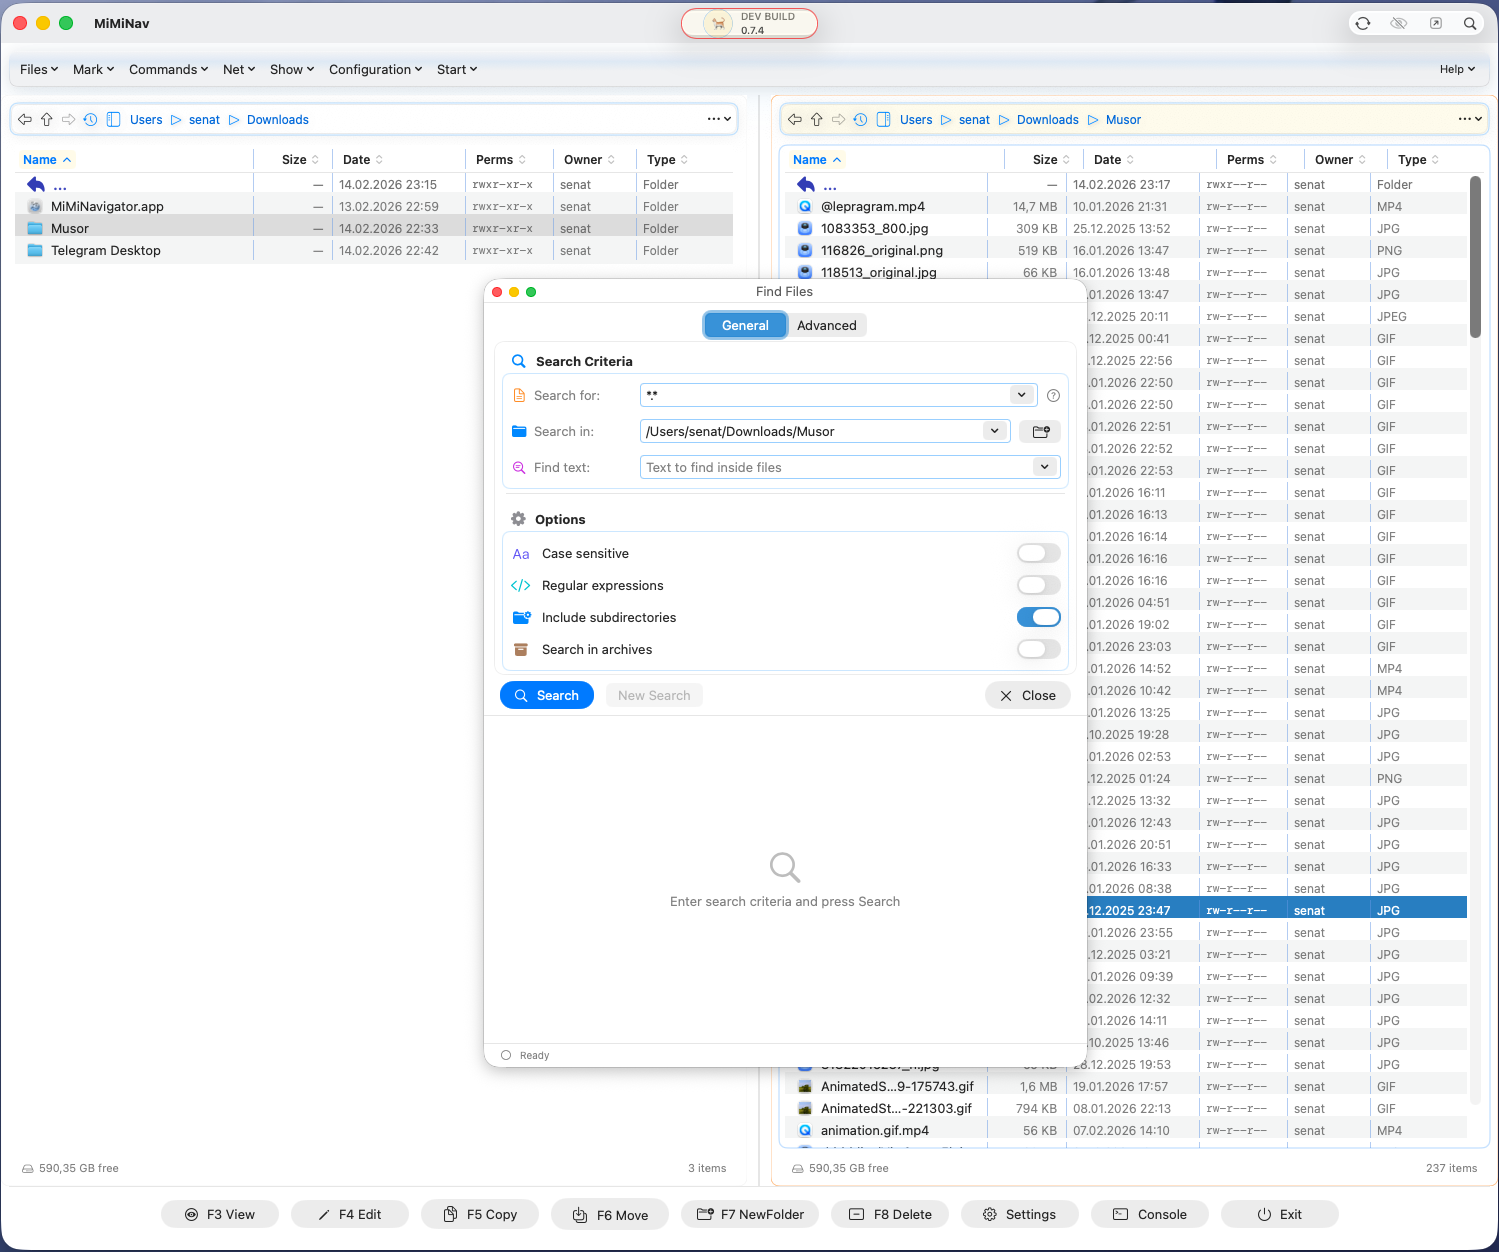
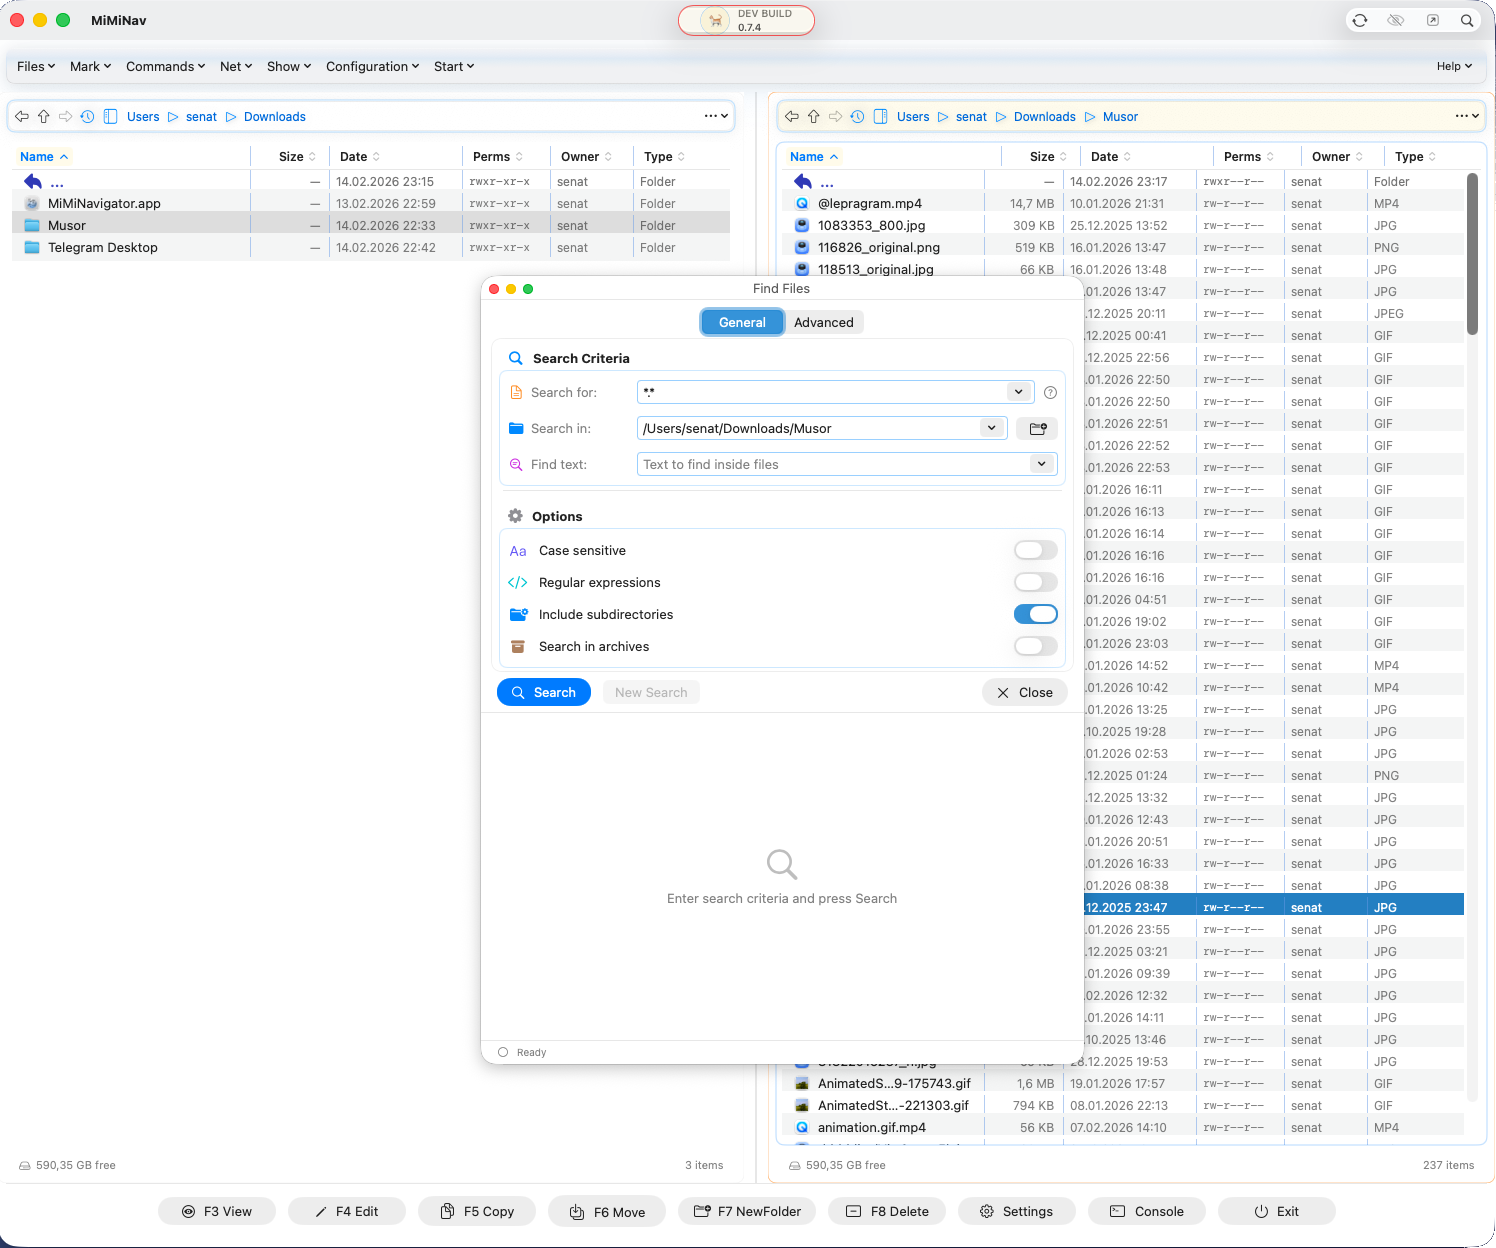
Add diagnostic drag logging to ResizableDivider
- Logs translation, delta, start/new/clamped width on every drag frame
- Helps diagnose directional drag issue

Fix ResizableDivider: add onAutoFit + double-click, keep real-time drag

- Drag updates binding in real-time (visual feedback) but saves only on mouse-up
- Double-click on divider auto-fits column to widest content + 1 char
- onAutoFit closure passed from TableHeaderView → FileTableView auto-fit methods

Move GeometryReader to FileTableView.body background for stable width measurement

- GeometryReader inside VStack was unreliable (tableW=0 race condition)
- Now measures actual rendered width of the ScrollViewReader container
- Remove .frame(maxWidth:.infinity) from FileTableRowsView
- Both header and rows receive same computed nameColumnWidth

Radical fix: remove computed nameColumnWidth, use .maxWidth(.infinity) for Name in both header and rows

- Both header and rows now use identical .frame(minWidth:60, maxWidth:.infinity)
- Removes nameColumnWidth computed property, tableContentWidth, GeometryReader
- SwiftUI layout engine handles flexible column sizing identically
- ResizableDivider gets explicit .frame(width:1) to match ColumnSeparator
- Eliminates all formula-based width calculation and race conditions

Optimize column resize: defer update to mouse-up, add double-click auto-fit

- ResizableDivider: drag updates local @State only, binding commits on onEnded
- Eliminates per-frame re-render of all rows during column resize drag
[…]

diff --git a/GUI/Sources/Features/Panels/FileTable/ResizableDivider.swift b/GUI/Sources/Features/Panels/FileTable/ResizableDivider.swift
@@ -2,31 +2,32 @@
 // MiMiNavigator
 //
 // Created by Iakov Senatov on 27.01.2026.
+// Refactored: 17.02.2026
 // Copyright © 2026 Senatov. All rights reserved.
 // Description: Draggable divider for resizing table columns
+//   - Drag updates binding in real-time but saves (onEnd) only on mouse-up
+//   - Double-click triggers auto-fit callback
 
 import SwiftUI
 
 // MARK: - Resizable Divider
-/// Vertical divider that can be dragged to resize adjacent columns
-/// Resizable column divider for header.
-/// Uses the SAME ColumnSeparator as row dividers to guarantee identical layout,
-/// with an invisible overlay for drag gesture hit area.
 struct ResizableDivider: View {
     @Binding var width: CGFloat
     let min: CGFloat
     let max: CGFloat
+    /// Called only on mouse-up (saves to UserDefaults)
     let onEnd: () -> Void
+    /// Called on double-click; returns optimal width for the column
+    var onAutoFit: (() -> CGFloat)? = nil
 
     @State private var isHovering = false
     @State private var isDragging = false
     @State private var dragStartWidth: CGFloat = 0
 
     var body: some View {
-        // Use exactly the same ColumnSeparator as rows — guarantees identical layout
         ColumnSeparator()
+            .frame(width: ColumnSeparatorStyle.width)
             .overlay {
-                // Hover/drag color feedback (does not affect layout)
                 if isHovering || isDragging {
                     Rectangle()
                         .fill(isDragging ? ColumnSeparatorStyle.dragColor : ColumnSeparatorStyle.hoverColor)
@@ -35,11 +36,11 @@ struct ResizableDivider: View {
                 }
             }
             .overlay {
-                // Wide invisible hit area for dragging (does not affect layout)
                 Color.clear
                     .frame(width: 14)
                     .contentShape(Rectangle())
                     .gesture(dragGesture)
+                    .simultaneousGesture(doubleTapGesture)
                     .onHover { hovering in
                         withAnimation(.easeInOut(duration: 0.1)) {
                             isHovering = hovering
@@ -53,6 +54,7 @@ struct ResizableDivider: View {
             }
     }
 
+    // MARK: - Drag: update binding in real-time, save only on mouse-up
     private var dragGesture: some Gesture {
         DragGesture(minimumDistance: 1)
             .onChanged { value in
@@ -62,12 +64,26 @@ struct ResizableDivider: View {
                 }
                 let delta = -value.translation.width
                 let newWidth = dragStartWidth + delta
-                width = Swift.min(Swift.max(newWidth, min), max)
+                let clamped = Swift.min(Swift.max(newWidth, min), max)
+                log.debug("[RD] drag tx=\(value.translation.width) delta=\(delta) start=\(dragStartWidth) new=\(newWidth) clamped=\(clamped) old=\(width)")
+                width = clamped
             }
             .onEnded { _ in
                 isDragging = false
+                onEnd()  // persist to UserDefaults only once
+                log.debug("[ResizableDivider] drag ended, width=\(width)")
+            }
+    }
+
+    // MARK: - Double-tap: auto-fit column width
+    private var doubleTapGesture: some Gesture {
+        TapGesture(count: 2)
+            .onEnded {
+                guard let autoFit = onAutoFit else { return }
+                let optimal = Swift.min(Swift.max(autoFit(), min), max)
+                width = optimal
                 onEnd()
-                log.debug("\(#function) [ResizableDivider] drag ended, new width=\(width)")
+                log.debug("[ResizableDivider] auto-fit, width=\(optimal)")
             }
     }
 }

diff --git a/GUI/Sources/Features/Panels/FileTable/TableHeaderView.swift b/GUI/Sources/Features/Panels/FileTable/TableHeaderView.swift
@@ -15,67 +15,75 @@ struct TableHeaderView: View {
     let panelSide: PanelSide
     @Binding var sortKey: SortKeysEnum
     @Binding var sortAscending: Bool
-    let nameColumnWidth: CGFloat
     @Binding var sizeColumnWidth: CGFloat
     @Binding var dateColumnWidth: CGFloat
     @Binding var typeColumnWidth: CGFloat
     @Binding var permissionsColumnWidth: CGFloat
     @Binding var ownerColumnWidth: CGFloat
     let onSave: () -> Void
+    // Auto-fit closures: return optimal width for each column
+    var autoFitSize: (() -> CGFloat)? = nil
+    var autoFitDate: (() -> CGFloat)? = nil
+    var autoFitPermissions: (() -> CGFloat)? = nil
+    var autoFitOwner: (() -> CGFloat)? = nil
+    var autoFitType: (() -> CGFloat)? = nil
 
     var body: some View {
         HStack(alignment: .center, spacing: 0) {
-            // Name column (flexible)
+            // Name column (flexible) — no divider before it, no fixed width
             nameHeader
+
+            // ── Each divider sits BEFORE its column ──
+            // Drag RIGHT → column SHRINKS (delta = -translation)
+            // Drag LEFT  → column GROWS
+            //
+            // Layout: Name ‖ Size ‖ Date ‖ Perms ‖ Owner ‖ Type
+            //              ↑      ↑      ↑       ↑       ↑
+            //          dividers control the column to their RIGHT
 
             ResizableDivider(
                 width: $sizeColumnWidth,
                 min: TableColumnDefaults.minWidth,
                 max: TableColumnDefaults.maxWidth,
-                onEnd: onSave
+                onEnd: onSave,
+                onAutoFit: autoFitSize
             )
-
-            // Size column
             sizeHeader
 
             ResizableDivider(
                 width: $dateColumnWidth,
                 min: TableColumnDefaults.minWidth,
                 max: TableColumnDefaults.maxWidth,
-                onEnd: onSave
+                onEnd: onSave,
+                onAutoFit: autoFitDate
             )
-
-            // Date column
             dateHeader
 
             ResizableDivider(
                 width: $permissionsColumnWidth,
                 min: TableColumnDefaults.minWidth,
                 max: TableColumnDefaults.maxWidth,
-                onEnd: onSave
+                onEnd: onSave,
+                onAutoFit: autoFitPermissions
             )
-
-            // Permissions column
             permissionsHeader
 
             ResizableDivider(
                 width: $ownerColumnWidth,
                 min: TableColumnDefaults.minWidth,
                 max: TableColumnDefaults.maxWidth,
-                onEnd: onSave
+                onEnd: onSave,
+                onAutoFit: autoFitOwner
             )
-
-            // Owner column
             ownerHeader
 
             ResizableDivider(
                 width: $typeColumnWidth,
                 min: TableColumnDefaults.minWidth,
                 max: TableColumnDefaults.maxWidth,
-                onEnd: onSave
+                onEnd: onSave,
+                onAutoFit: autoFitType
             )
-
-            // Type column
             typeHeader
         }
         .frame(height: 24)
@@ -88,7 +96,7 @@ struct TableHeaderView: View {
     // MARK: - Name Column
     private var nameHeader: some View {
         SortableHeader(title: "Name", sortKey: .name, currentKey: sortKey, ascending: sortAscending)
-            .frame(width: nameColumnWidth, alignment: .leading)
+            .frame(minWidth: 60, maxWidth: .infinity, alignment: .leading)
             .clipped()
             .contentShape(Rectangle())
             .onTapGesture { toggleSort(.name) }

diff --git a/GUI/Sources/FilePanel/FileTable/TableView/FileTableView+Subviews.swift b/GUI/Sources/FilePanel/FileTable/TableView/FileTableView+Subviews.swift
@@ -12,27 +12,22 @@ extension FileTableView {
     
     var mainScrollView: some View {
         VStack(spacing: 0) {
-            // Measure available width for computing Name column
-            Color.clear.frame(height: 0)
-                .background(
-                    GeometryReader { geo in
-                        Color.clear
-                            .onAppear { tableContentWidth = geo.size.width }
-                            .onChange(of: geo.size.width) { _, w in tableContentWidth = w }
-                    }
-                )
             // Sticky header - outside ScrollView
             TableHeaderView(
                 panelSide: panelSide,
                 sortKey: $sortKey,
                 sortAscending: $sortAscending,
-                nameColumnWidth: nameColumnWidth,
                 sizeColumnWidth: $sizeColumnWidth,
                 dateColumnWidth: $dateColumnWidth,
                 typeColumnWidth: $typeColumnWidth,
                 permissionsColumnWidth: $permissionsColumnWidth,
                 ownerColumnWidth: $ownerColumnWidth,
-                onSave: saveColumnWidths
+                onSave: saveColumnWidths,
+                autoFitSize: { autoFitSize() },
+                autoFitDate: { autoFitDate() },
+                autoFitPermissions: { autoFitPermissions() },
+                autoFitOwner: { autoFitOwner() },
+                autoFitType: { autoFitType() }
             )
             
             // Scrollable content with background context menu
@@ -50,7 +45,6 @@ extension FileTableView {
                                 rows: sortedRows,
                                 selectedID: $selectedID,
                                 panelSide: panelSide,
-                                nameColumnWidth: nameColumnWidth,
                                 sizeColumnWidth: sizeColumnWidth,
                                 dateColumnWidth: dateColumnWidth,
                                 typeColumnWidth: typeColumnWidth,
@@ -62,7 +56,6 @@ extension FileTableView {
                                 handleDirectoryAction: handleDirectoryAction,
                                 handleMultiSelectionAction: handleMultiSelectionAction
                             )
-                            .frame(maxWidth: .infinity, alignment: .leading)
                         }
                         
                         // Empty space at bottom to allow right-click on empty area

diff --git a/GUI/Sources/Features/Panels/FileTable/TableView/FileTableView+State.swift b/GUI/Sources/Features/Panels/FileTable/TableView/FileTableView+State.swift
@@ -35,4 +35,53 @@ extension FileTableView {
         cachedSortedFiles = files.sorted(by: sorter.compare)
         log.debug("\(#function) panel=\(panelSide) sorted \(cachedSortedFiles.count) files by \(sortKey) asc=\(sortAscending)")
     }
+
+    // MARK: - Auto-fit: compute optimal column width from content
+
+    /// Measure pixel width of the longest string in column + 1 char padding
+    private func autoFitWidth(texts: [String], font: NSFont) -> CGFloat {
+        let attrs: [NSAttributedString.Key: Any] = [.font: font]
+        let charW = ("W" as NSString).size(withAttributes: attrs).width
+        var maxW: CGFloat = 0
+        for text in texts {
+            let w = (text as NSString).size(withAttributes: attrs).width
+            if w > maxW { maxW = w }
+        }
+        return ceil(maxW + charW)  // +1 character
+    }
+
+    func autoFitSize() -> CGFloat {
+        autoFitWidth(
+            texts: cachedSortedFiles.map { $0.fileSizeFormatted },
+            font: NSFont.systemFont(ofSize: 12)
+        ) + 8  // account for padding(.trailing, 8)
+    }
+
+    func autoFitDate() -> CGFloat {
+        autoFitWidth(
+            texts: cachedSortedFiles.map { $0.modifiedDateFormatted },
+            font: NSFont.systemFont(ofSize: 12)
+        ) + 12  // account for padding(.horizontal, 6)
+    }
+
+    func autoFitPermissions() -> CGFloat {
+        autoFitWidth(
+            texts: cachedSortedFiles.map { $0.permissionsFormatted },
+            font: NSFont.monospacedSystemFont(ofSize: 11, weight: .regular)
+        ) + 12
+    }
+
+    func autoFitOwner() -> CGFloat {
+        autoFitWidth(
+            texts: cachedSortedFiles.map { $0.ownerFormatted },
+            font: NSFont.systemFont(ofSize: 12)
+        ) + 12
+    }
+
+    func autoFitType() -> CGFloat {
+        autoFitWidth(
+            texts: cachedSortedFiles.map { $0.fileTypeDisplay },
+            font: NSFont.systemFont(ofSize: 12)
+        ) + 12
+    }
 }

diff --git a/GUI/Sources/Features/Panels/FileTable/FileTableView.swift b/GUI/Sources/Features/Panels/FileTable/FileTableView.swift
@@ -34,7 +34,6 @@ struct FileTableView: View {
     @State var isPanelDropTargeted: Bool = false
     
     // MARK: - Column Widths
-    @State var tableContentWidth: CGFloat = 0
     @State var sizeColumnWidth: CGFloat = TableColumnDefaults.size
     @State var dateColumnWidth: CGFloat = TableColumnDefaults.date
     @State var typeColumnWidth: CGFloat = TableColumnDefaults.type
@@ -44,21 +43,7 @@ struct FileTableView: View {
     // MARK: - Computed Properties
     var isFocused: Bool { appState.focusedPanel == panelSide }
     
-    /// Name column width computed from table width minus all fixed columns.
-    /// Both header and rows use this same value - guarantees alignment.
-    var nameColumnWidth: CGFloat {
-        let hstackPadding: CGFloat = 8  // .padding(.horizontal, 4) on HStack = 4+4
-        let separators: CGFloat = 5 * ColumnSeparatorStyle.width  // 5 × 1px dividers
-        let sizeTotal = sizeColumnWidth + 8    // .padding(.trailing, 8)
-        let dateTotal = dateColumnWidth + 12   // .padding(.horizontal, 6)
-        let permTotal = permissionsColumnWidth + 12
-        let ownerTotal = ownerColumnWidth + 12
-        let typeTotal = typeColumnWidth + 12
-        let fixedTotal = sizeTotal + dateTotal + permTotal + ownerTotal + typeTotal + separators + hstackPadding
-        let result = max(60, tableContentWidth - fixedTotal)
-        log.debug("\(#function) nameColumnWidth: tableW=\(tableContentWidth) fixed=\(fixedTotal) name=\(result) panel=\(panelSide)")
-        return result
-    }
+    // Name column width: both header and rows use .maxWidth(.infinity) — SwiftUI handles alignment
     var columnStorage: ColumnWidthStorage { ColumnWidthStorage(panelSide: panelSide) }
     var sorter: TableFileSorter { TableFileSorter(sortKey: sortKey, ascending: sortAscending) }
     

diff --git a/GUI/Sources/Features/Panels/FileRow.swift b/GUI/Sources/Features/Panels/FileRow.swift
@@ -14,7 +14,6 @@ struct FileRow: View {
     let file: CustomFile
     let isSelected: Bool
     let panelSide: PanelSide
-    let nameColumnWidth: CGFloat
     let sizeColumnWidth: CGFloat
     let dateColumnWidth: CGFloat
     let typeColumnWidth: CGFloat
@@ -294,9 +293,9 @@ struct FileRow: View {
     // MARK: - Row content with columns and separators (aligned with header)
     private var rowContent: some View {
         HStack(alignment: .center, spacing: 0) {
-            // Name column — fixed width computed from table width minus fixed columns
+            // Name column — flexible, same as header's .maxWidth(.infinity)
             FileRowView(file: file, isSelected: isSelected, isActivePanel: isActivePanel, isMarked: isMarked)
-                .frame(width: nameColumnWidth, alignment: .leading)
+                .frame(minWidth: 60, maxWidth: .infinity, alignment: .leading)
                 .clipped()
 
             ColumnSeparator()

diff --git a/GUI/Sources/Features/Panels/FileTableRowsView.swift b/GUI/Sources/Features/Panels/FileTableRowsView.swift
@@ -11,7 +11,6 @@ struct FileTableRowsView: View {
     let rows: [(offset: Int, element: CustomFile)]
     @Binding var selectedID: CustomFile.ID?
     let panelSide: PanelSide
-    let nameColumnWidth: CGFloat
     let sizeColumnWidth: CGFloat
     let dateColumnWidth: CGFloat
     let typeColumnWidth: CGFloat
@@ -41,7 +40,6 @@ struct FileTableRowsView: View {
             file: file,
             isSelected: isSelected,
             panelSide: panelSide,
-            nameColumnWidth: nameColumnWidth,
             sizeColumnWidth: sizeColumnWidth,
             dateColumnWidth: dateColumnWidth,
             typeColumnWidth: typeColumnWidth,
